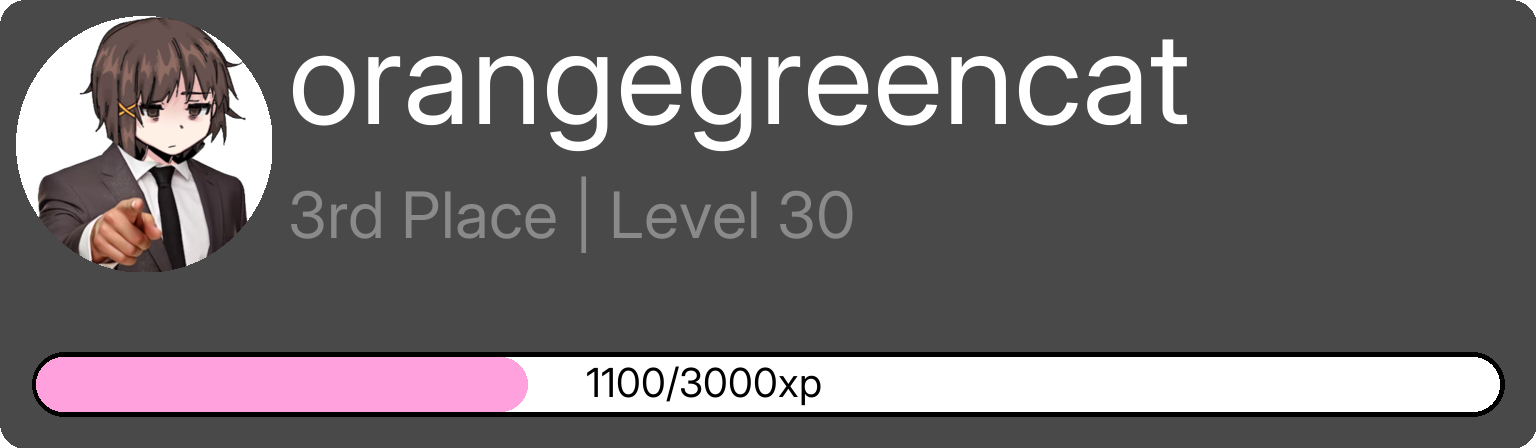
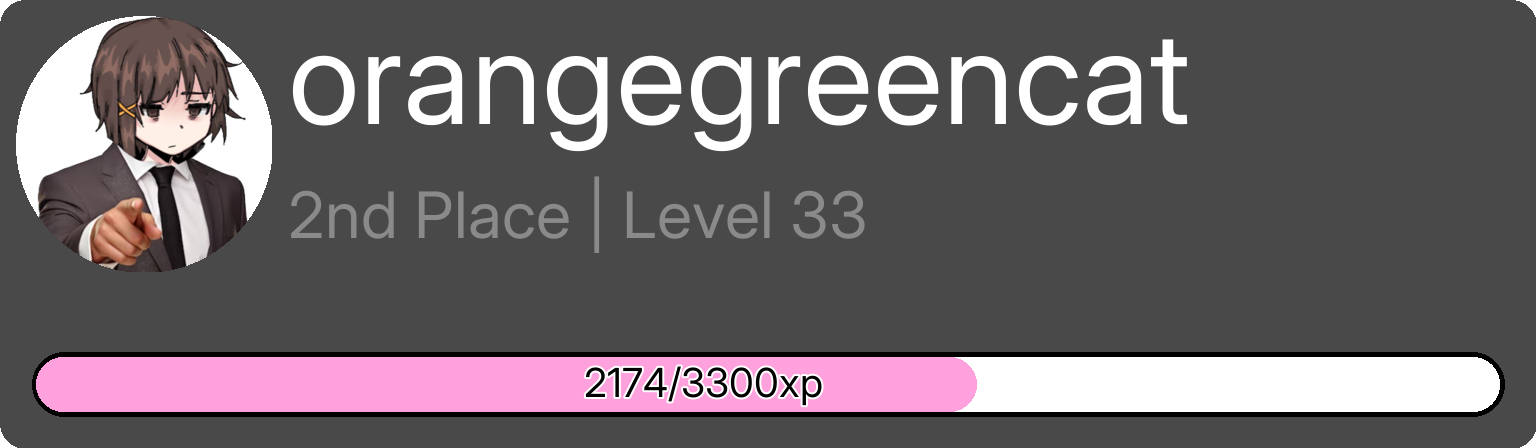
upgraded matching

Changed region(s): [[0.3125, 0.7812, 0.6562, 0.9375], [0.1875, 0.4062, 0.5625, 0.5625]]

diff --git a/matching.py b/matching.py
@@ -1,14 +1,11 @@
 # Matchmaking features for the bot
 from discord import Embed, Member, Message, Interaction
-from discord.app_commands import command, Group
+from discord.app_commands import command, Group, guild_only
 from discord.ext.commands import Cog
 from database import matching, generate_profile_description
 from matchingui import ProfileCreationView
 
-
-
-
-
+import random
 
 
 
@@ -21,12 +18,64 @@ class Matching(Cog):
     matching = Group(name="matching", description="group of matching commands")
     profile = Group(name="profile", description="a subgroup of profile based commands", parent=matching)
 
+    
+    @matching.command(name="compatible", description="see all the compatiable profiles")
+    async def compatible(self, interaction:Interaction):
+        if not interaction.guild: return await interaction.response.send_message("you have to use this in a guild!")
+        await interaction.response.defer()
+        data:dict = matching.find_one({'user_id':interaction.user.id})
+        if not data: return await interaction.followup.send("You have no profile! Create one using `/matching profile create`")
+        if not data.get('approved'): return await interaction.followup.send("You havent been approved! please wait for it to be approved/denied")
+
+
+        age =  int(data.get('age'))
+        user_ids = [member.id for member in interaction.guild.members]
+        profiles = [profile for profile in matching.find({'approved':True}) if profile.get('user_id') in user_ids and not int(profile.get('age')) > age+2 and not int(profile.get('age')) < age-2 and not int(profile.get('user_id')) == interaction.user.id]
+
+        await interaction.followup.send(f"You have `{len(profiles)}` compatible profiles to match with")
+
+
     @matching.command()
     async def match(self, interaction:Interaction):
-        await interaction.response.send_message("Kill yourself @castaways")
+        if not interaction.guild: return await interaction.response.send_message("you have to use this in a guild!")
+        await interaction.response.defer()
+        #get our data to compare against
+        data:dict = matching.find_one({'user_id':interaction.user.id})
+        if not data: return await interaction.followup.send("You have no profile! Create one using `/matching profile create`")
+        if not data.get('approved'): return await interaction.followup.send("You havent been approved! please wait for it to be approved/denied")
+
+        age =  int(data.get('age'))
+
+        user_ids = [member.id for member in interaction.guild.members]
+
+        profiles = [profile for profile in matching.find({'approved':True}) if profile.get('user_id') in user_ids and not int(profile.get('age')) > age+2 and not int(profile.get('age')) < age-2 and not int(profile.get('user_id')) == interaction.user.id]
+
+        if not profiles:
+            return await interaction.followup.send("their is no one for you to match with, sorry!")
+        
+         
+
+
+        # get data from the database to pick randomly from
+        
+        profile:dict = profiles[random.randint(0,len(profiles)-1)]
+        user_id = int(profile.get('user_id'))
+        member = interaction.guild.get_member(user_id)
+        description, resp_id = generate_profile_description(user_id)
+
+        profile_embed = Embed(title="Profile", description=description, color=0xffa1dc)
+        profile_embed.set_author(name=member.name, icon_url=member.avatar.url)
+        profile_embed.set_footer(text=f"Profile Id: {resp_id}")
+
+        await interaction.followup.send(embed=profile_embed)
+
+
+    
+
 
     @profile.command(name="create")
-    async def profile_create(self, interaction:Interaction):       
+    async def profile_create(self, interaction:Interaction):    
+        if not interaction.guild: return await interaction.response.send_message("you have to use this in a guild!")   
 
         description, resp_id = generate_profile_description(interaction.user.id)
         profile_embed = Embed(title="Profile", description=description, color=0xffa1dc)
@@ -41,3 +90,16 @@ class Matching(Cog):
         matching.delete_one({"user_id":interaction.user.id})
 
         await interaction.response.send_message("Your profile has been deleted! Whoops sorry for no confirm deletion button", ephemeral=True)
+    
+
+    @profile.command(name="status",description="See the status of your profile")
+    async def profile_status(self, interaction:Interaction):       
+        if not interaction.guild: return await interaction.response.send_message("you have to use this in a guild!")
+        data:dict = matching.find_one({'user_id':interaction.user.id})
+        if not data: return await interaction.response.send_message("You havent even submitted a profile")
+        status = data.get('approved')
+        if not status: return await interaction.response.send_message("Your profile isnt submitted, use `/matching profile create` to submit it")
+        await interaction.response.send_message(f"Your approval status: `{status}`\n\nFalse means it hasnt been approved yet, if its been more then 3 hours @ping the mods to see if it was submitted properly, if not resubmit it\nTrue means it was submitted :thumbsup:")
+        
+
+

diff --git a/levels.py b/levels.py
@@ -79,6 +79,7 @@ class Levels(Cog):
     
     @command(description="View the level of yourself or another user")
     async def view_level(self, interaction:Interaction, member:Member=None, hidden:bool=False):
+        await interaction.response.defer()
         if not member: member = interaction.user
         data:dict = levels_data.find_one({"user_id":member.id})
         leaderboard:list = sorted(levels_data.find(), key=lambda x:x.get('level'), reverse=True)
@@ -100,7 +101,7 @@ class Levels(Cog):
         generate_level(member.name, level,rank,xp,member.avatar.url)
         file = File('output.png', filename=f"output_card.png")
         
-        await interaction.response.send_message(ephemeral=hidden, file=file)
+        await interaction.followup.send(ephemeral=hidden, file=file)
     
 
 
